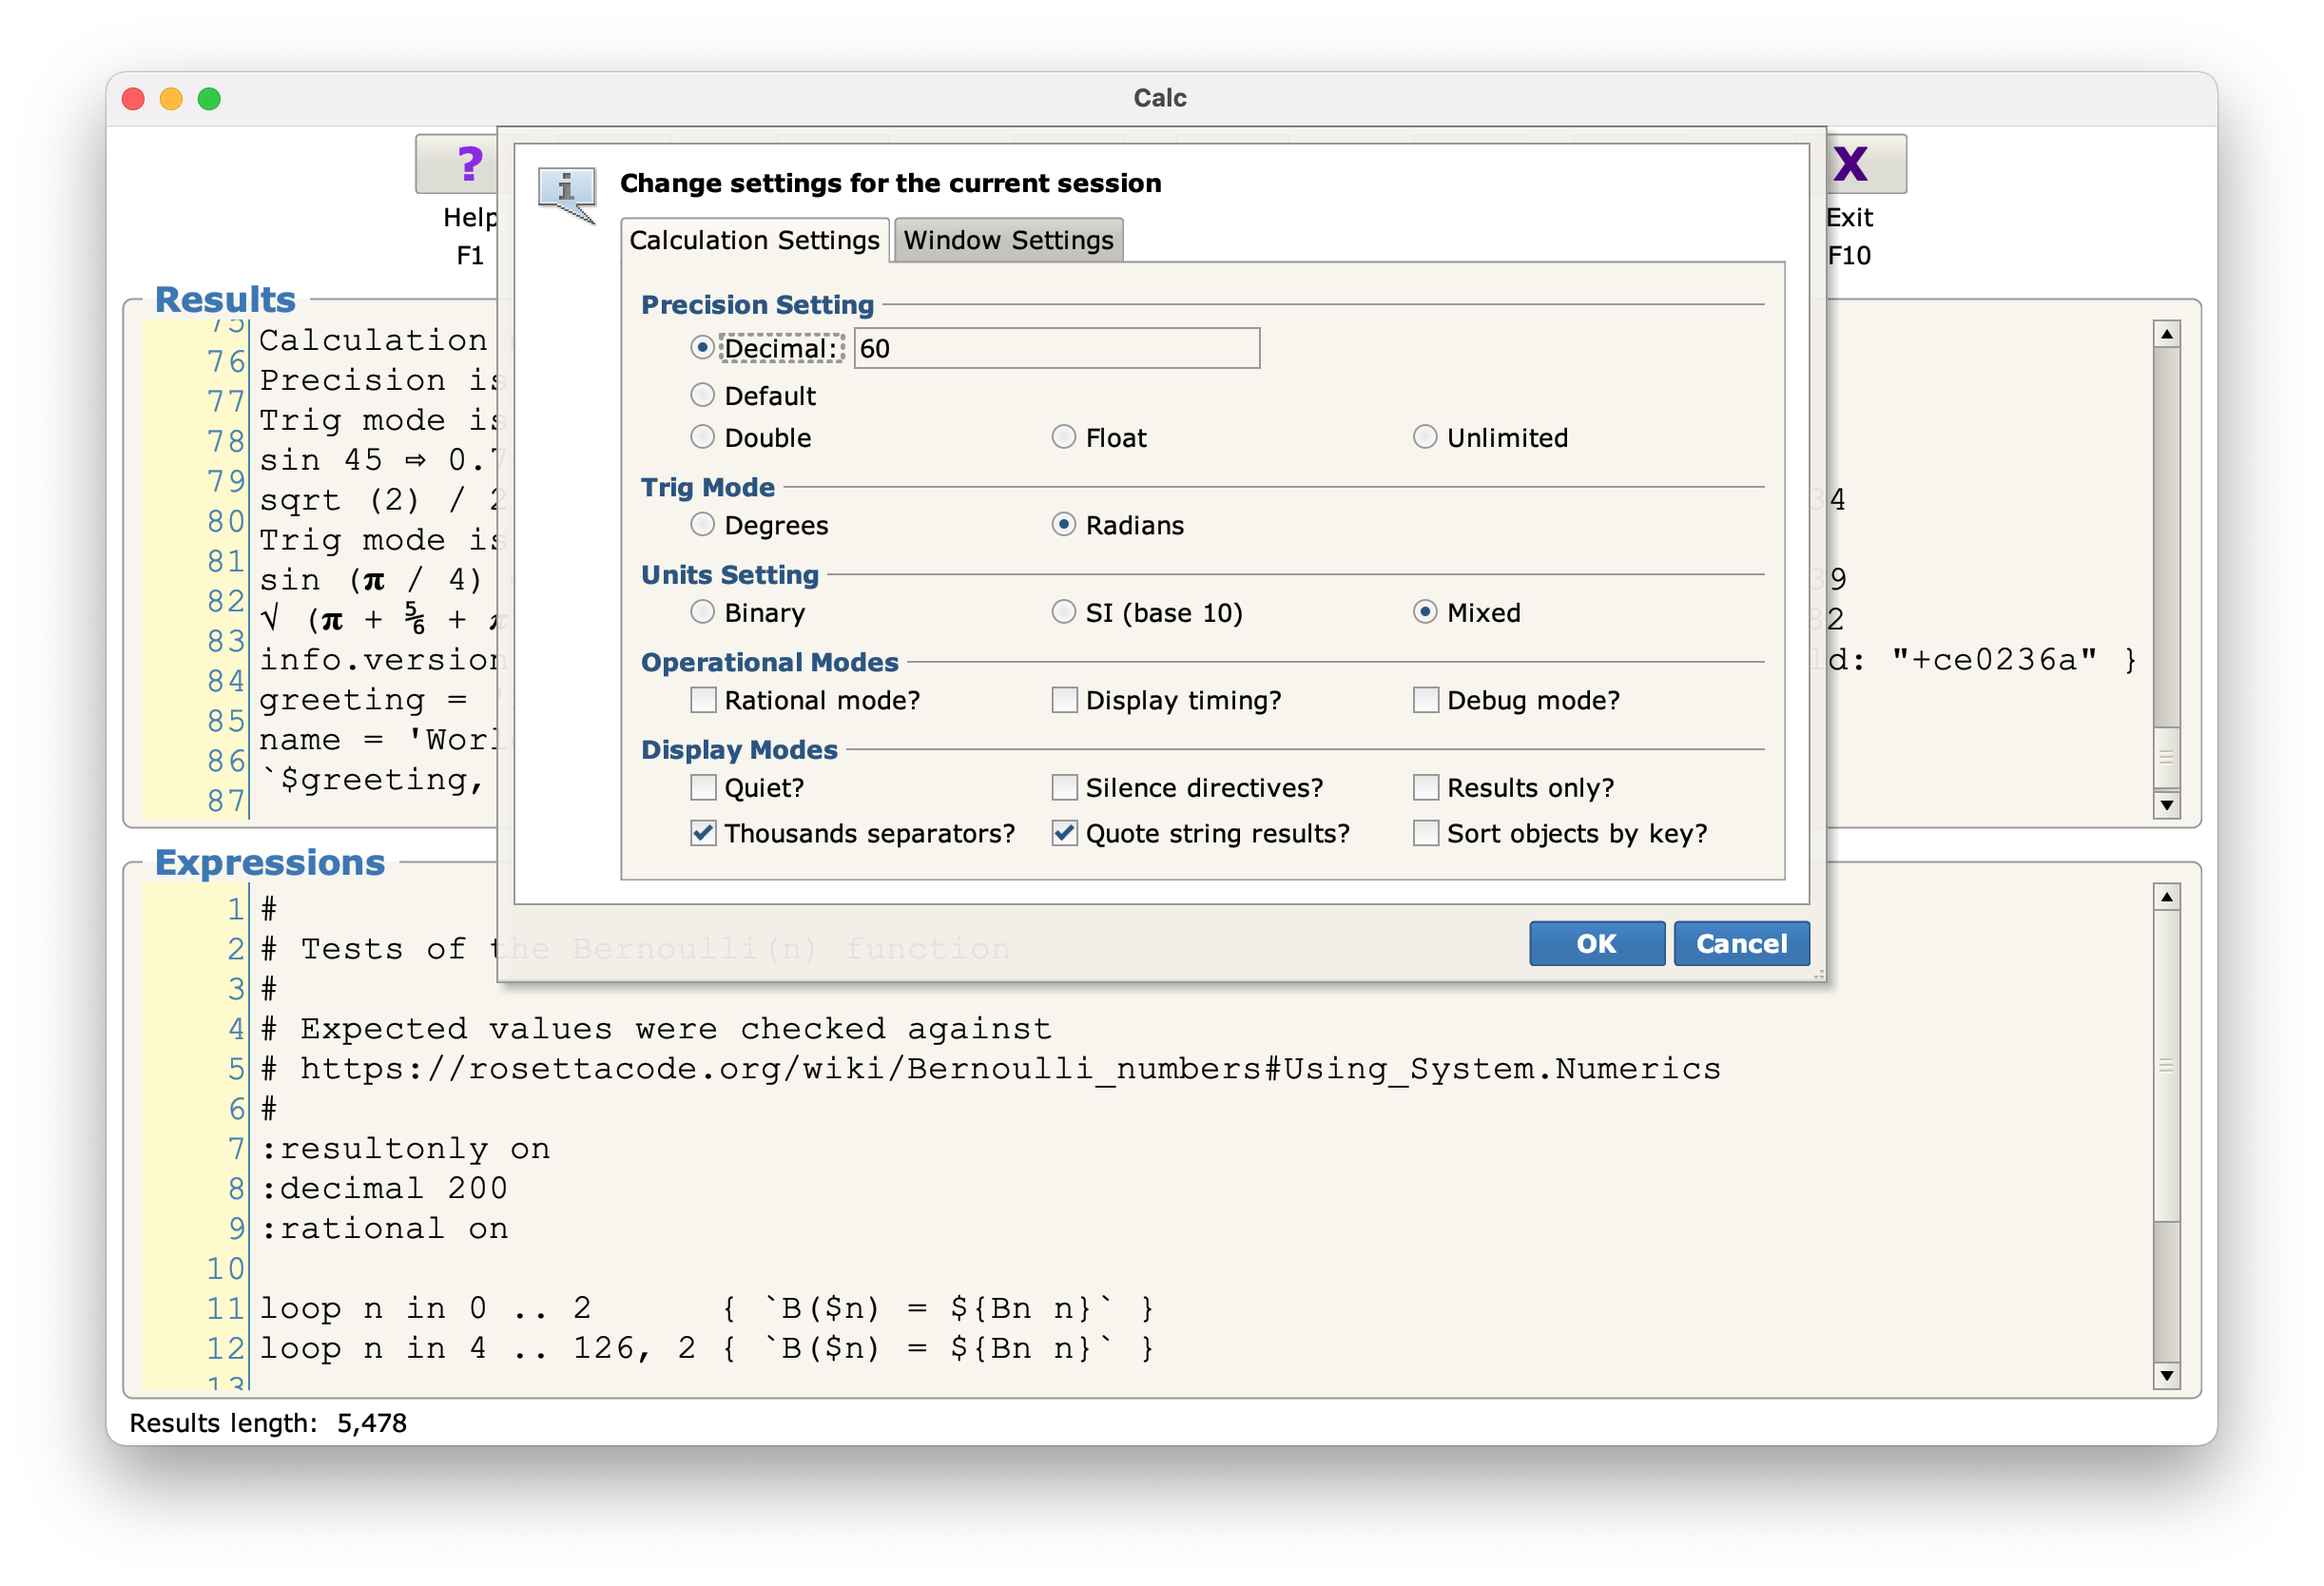
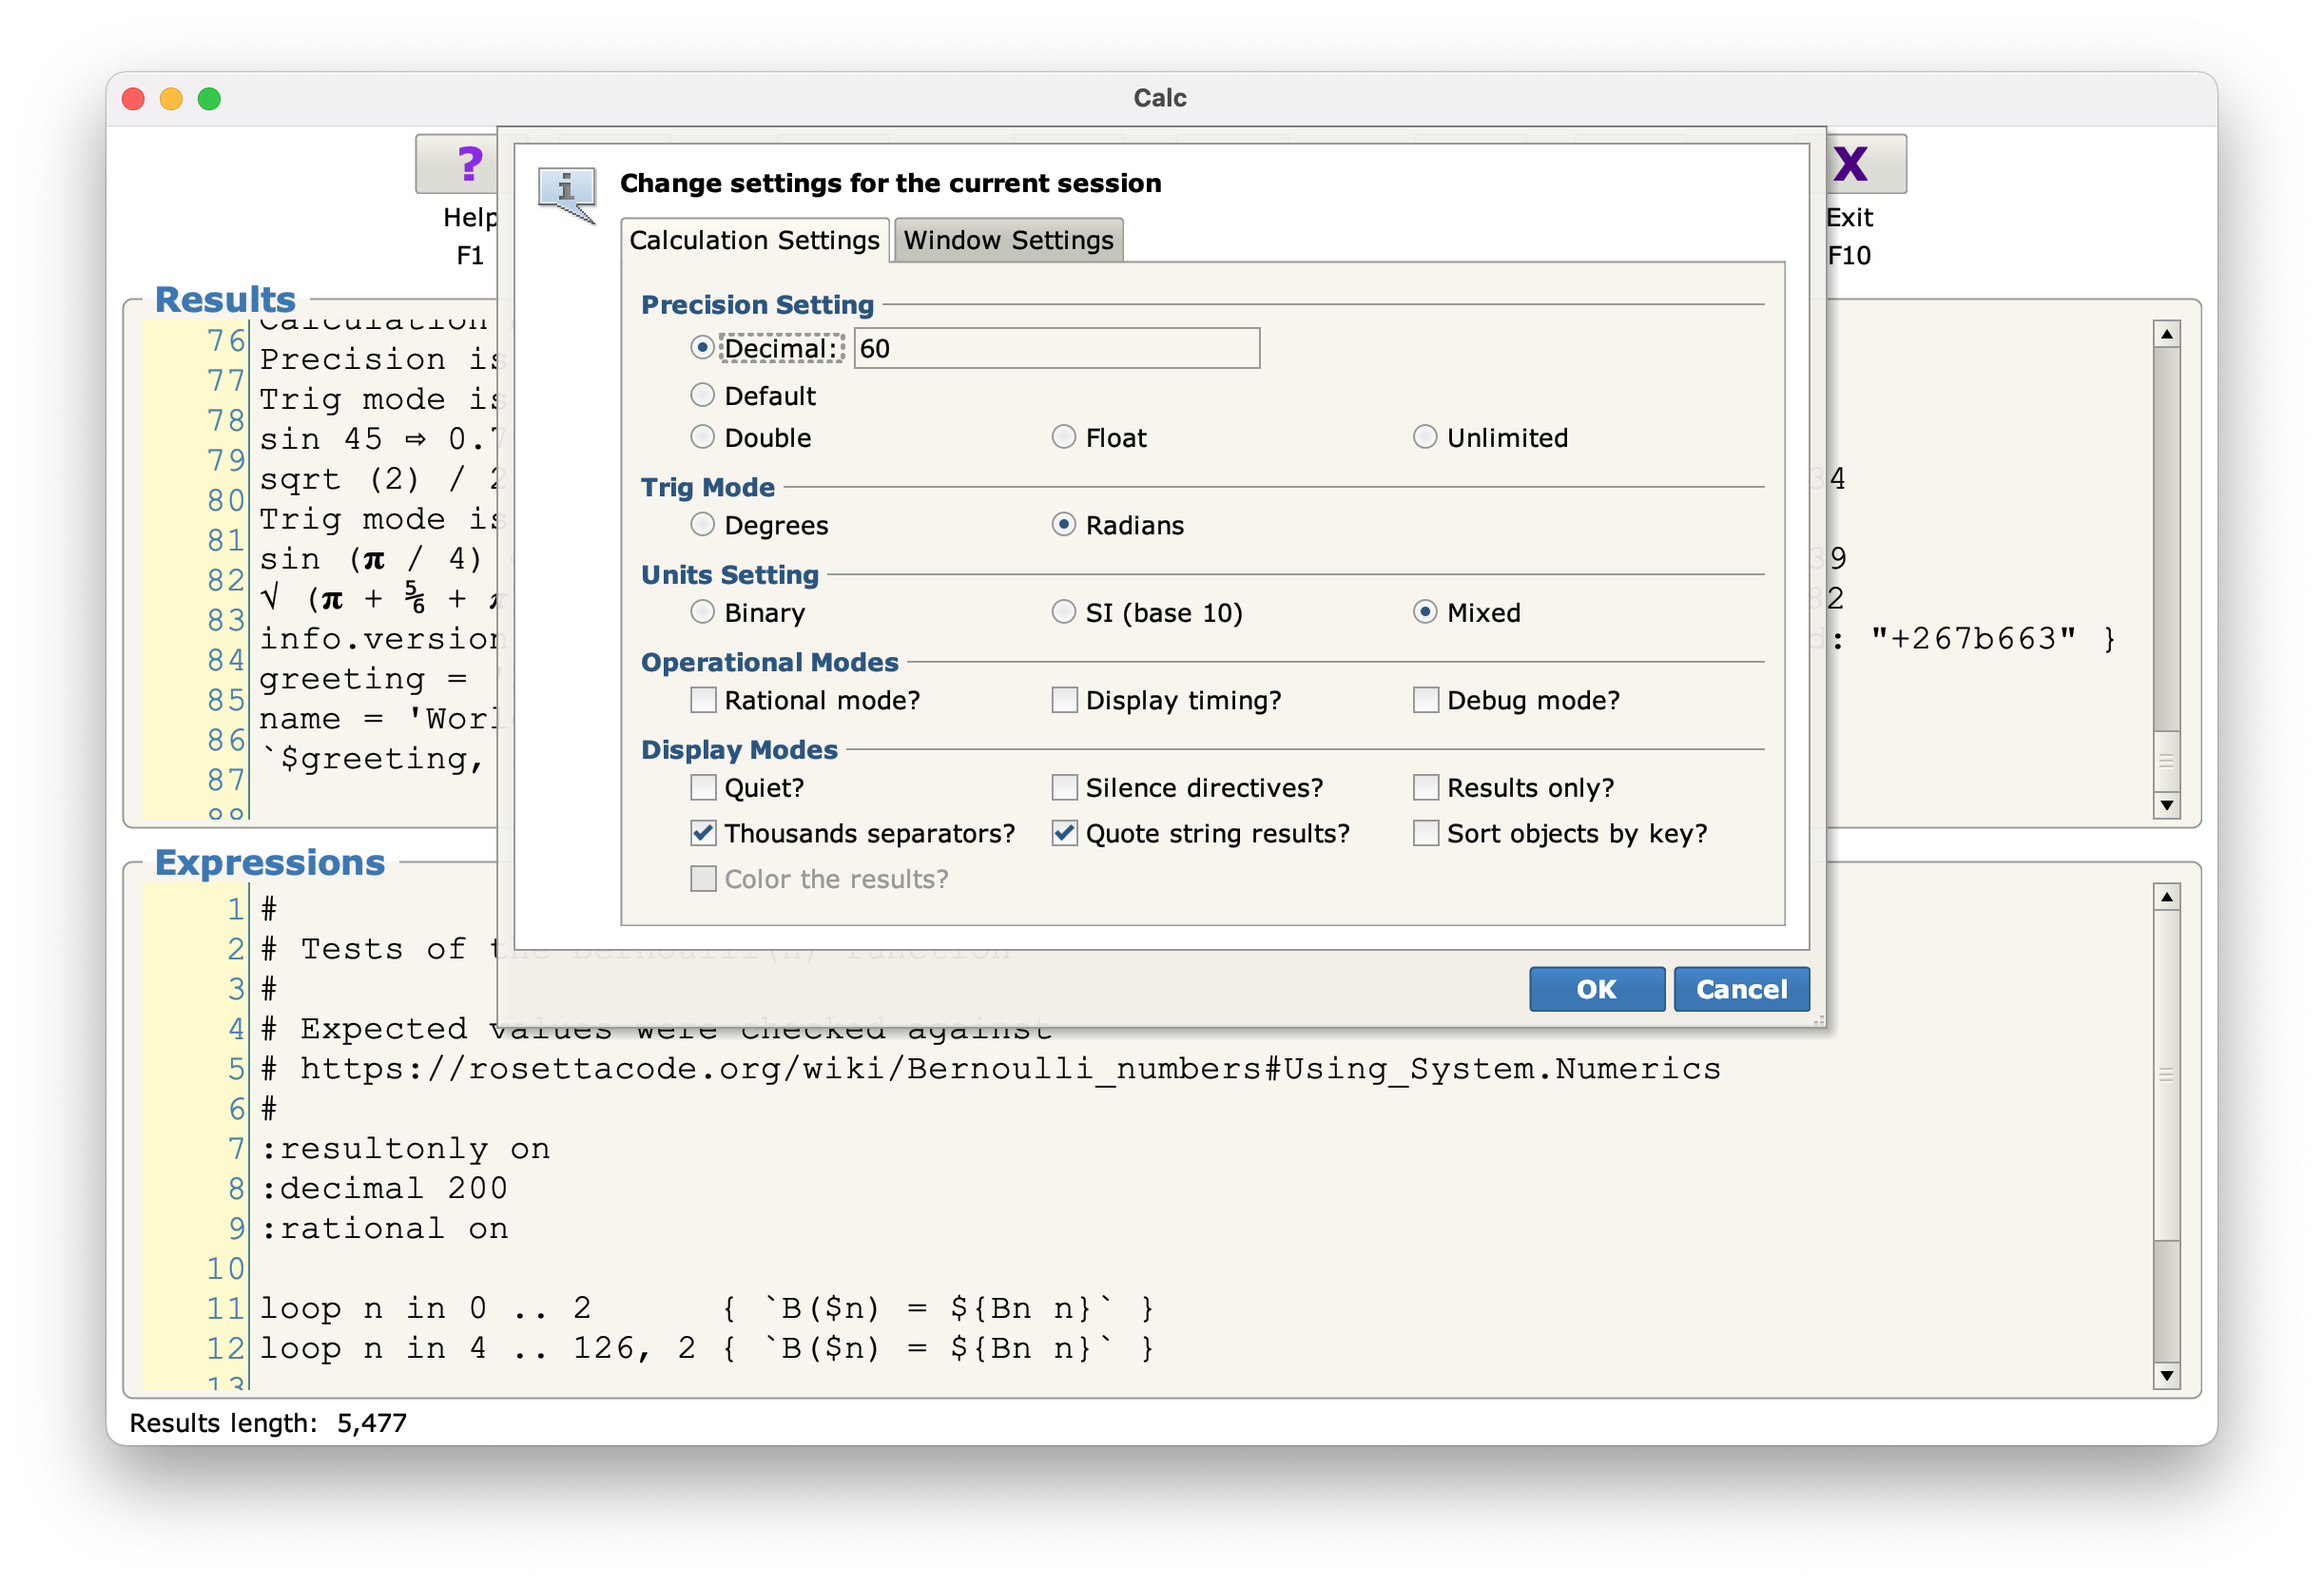
#454: Implement ":colors" directive in Calc.

diff --git a/java/info/rlwhitcomb/calc/Calc.java b/java/info/rlwhitcomb/calc/Calc.java
@@ -303,6 +303,8 @@
  *	    #432: Add flags ("-file", "-text", and "-filetext") as well as input handling for this.
  *	16-Aug-2022 (rlwhitcomb)
  *	    #439: Implement fallback processing of "next" statement.
+ *	24-Aug-2022 (rlwhitcomb)
+ *	    #454: Process new colored option in Settings dialog; allow setting colored mode from visitor.
  */
 package info.rlwhitcomb.calc;
 
@@ -469,7 +471,8 @@ public class Calc
 	{
 		ORIGINAL_SETTINGS,
 		ORIGINAL_MATH_CONTEXT,
-		NEW_MATH_CONTEXT
+		NEW_MATH_CONTEXT,
+		ORIGINAL_COLORED
 	}
 
 
@@ -550,6 +553,7 @@ public class Calc
 	@BXML private Checkbox separatorCheck;
 	@BXML private Checkbox quoteStringsCheck;
 	@BXML private Checkbox sortKeysCheck;
+	@BXML private Checkbox coloredCheck;
 	@BXML private RadioButton useEnterButton;
 	@BXML private RadioButton useCmdEnterButton;
 	@BXML private RadioButton lightBackgroundButton;
@@ -622,7 +626,6 @@ public class Calc
 	    colorMap.put("y", (darkBackgrounds ? YELLOW_BRIGHT : BLUE_BOLD));
 	    colorMap.put("a", (darkBackgrounds ? WHITE : BLACK_BRIGHT));
 
-
 	    if (quoteMap.isEmpty()) {
 		quoteMap.put("x", "");
 		quoteMap.put("y", "\u201C");
@@ -686,6 +689,9 @@ public class Calc
 	    }
 	}
 
+	/**
+	 * Set the colors for the GUI components, depending on the dark/light settings.
+	 */
 	private void setGUIContainerColors(Container container) {
 	    setGUIComponentColors(container);
 	    for (Component comp : container) {
@@ -694,13 +700,6 @@ public class Calc
 		else
 		    setGUIComponentColors(comp);
 	    }
-	}
-
-	/**
-	 * Set the colors for the GUI components, depending on the dark/light settings.
-	 */
-	private void setGUIColors() {
-	    setGUIContainerColors(mainWindow);
 	}
 
 
@@ -791,6 +790,7 @@ public class Calc
 	    MathContext mc = visitor.getMathContext();
 	    Settings settings = visitor.getSettings();
 	    Settings oldSettings = new Settings(settings);
+	    boolean oldColored = colors;
 	    Component focusComponent = settingsForm;
 
 	    // TODO: we really should do this view load/store and data bind mappings
@@ -798,6 +798,7 @@ public class Calc
 	    dialog.setAttribute(Attribute.ORIGINAL_SETTINGS, oldSettings);
 	    dialog.setAttribute(Attribute.ORIGINAL_MATH_CONTEXT, mc);
 	    dialog.setAttribute(Attribute.NEW_MATH_CONTEXT, mc);
+	    dialog.setAttribute(Attribute.ORIGINAL_COLORED, oldColored);
 
 	    decimalDigitsInput.setText(String.valueOf(mc.getPrecision()));
 	    decimalDigitsInput.setEnabled(false);
@@ -848,6 +849,7 @@ public class Calc
 	    separatorCheck.setSelected(settings.separatorMode);
 	    quoteStringsCheck.setSelected(settings.quoteStrings);
 	    sortKeysCheck.setSelected(settings.sortKeys);
+	    coloredCheck.setSelected(colors);
 
 	    if (useCmdEnter)
 		useCmdEnterButton.setSelected(true);
@@ -870,6 +872,7 @@ public class Calc
 		    visitor.setMathContext(newMathContext);
 
 		Settings originalSettings = (Settings) dialog.getAttribute(Attribute.ORIGINAL_SETTINGS);
+		boolean originalColored = (Boolean) dialog.getAttribute(Attribute.ORIGINAL_COLORED);
 
 		TrigMode newTrigMode = TrigMode.RADIANS;
 		if (degreesModeButton.isSelected())
@@ -921,17 +924,22 @@ public class Calc
 		if (newSortKeys != originalSettings.sortKeys)
 		    visitor.setSortKeysMode(newSortKeys);
 
+		boolean newColored = coloredCheck.isSelected();
+		if (newColored != originalColored)
+		    visitor.setColoredMode(newColored);
+
 		useCmdEnter = useCmdEnterButton.isSelected();
 
 		darkBackgrounds = darkBackgroundButton.isSelected();
 
 		computeColors(colors);
-		setGUIColors();
+		setGUIContainerColors(mainWindow);
 	    }
 
 	    dialog.setAttribute(Attribute.ORIGINAL_SETTINGS, null);
 	    dialog.setAttribute(Attribute.ORIGINAL_MATH_CONTEXT, null);
 	    dialog.setAttribute(Attribute.NEW_MATH_CONTEXT, null);
+	    dialog.setAttribute(Attribute.ORIGINAL_COLORED, null);
 
 	    requestFocus(inputTextPane);
 	}
@@ -994,10 +1002,8 @@ public class Calc
 		System.setErr(ps);
 
 		// For now, we won't support colors in the GUI display
-		// TODO: if we ever support going back from GUI mode to console, we will need to restore
-		// the old "colors" mode at that point
 		computeColors(false);
-		setGUIColors();
+		setGUIContainerColors(mainWindow);
 
 		// Increase the maximum output text length in case of humongous calculations
 		outputTextArea.setMaximumLength(20_000_000);
@@ -1262,6 +1268,14 @@ public class Calc
 	    silenceDirectives = CharUtil.getBooleanValue(mode);
 	    visitor.setSilenceDirectives(silenceDirectives);
 	    return oldMode;
+	}
+
+	public static boolean getColoredMode() {
+	    return colors;
+	}
+
+	public static void setColoredMode(final boolean colored) {
+	    computeColors(colored && !guiMode);
 	}
 
 

diff --git a/java/info/rlwhitcomb/calc/CalcObjectVisitor.java b/java/info/rlwhitcomb/calc/CalcObjectVisitor.java
@@ -648,6 +648,8 @@
  *	    #452: Fix weird error due to "leave" not setting return value from function.
  *	    #455: Change "chars" and "codes" to deal differently depending on input value.
  *	    #459: Add "@@" (to string) operator.
+ *	24-Aug-2022 (rlwhitcomb)
+ *	    #454: Implement ":colors" directive.
  */
 package info.rlwhitcomb.calc;
 
@@ -797,6 +799,9 @@ public class CalcObjectVisitor extends CalcBaseVisitor<Object>
 
 	/** Stack of previous "sort keys" mode values. */
 	private final Deque<Boolean> sortKeysModeStack = new ArrayDeque<>();
+
+	/** Stack of previous "colored" mode values. */
+	private final Deque<Boolean> coloredModeStack = new ArrayDeque<>();
 
 	/** Stack of previous "resultsOnly" mode values. */
 	private final Deque<Boolean> resultsOnlyModeStack = new ArrayDeque<>();
@@ -1089,6 +1094,21 @@ public class CalcObjectVisitor extends CalcBaseVisitor<Object>
 
 	private Consumer<Object> pushSortKeysMode = mode -> {
 	    processModeOption(mode, sortKeysModeStack, setSortKeysMode);
+	};
+
+	public boolean setColoredMode(final Object mode) {
+	    boolean oldMode = Calc.getColoredMode();
+	    Calc.setColoredMode(CharUtil.getBooleanValue(mode));
+
+	    return oldMode;
+	}
+
+	private UnaryOperator<Boolean> setColoredMode = mode -> {
+	    return setColoredMode(mode);
+	};
+
+	private Consumer<Object> pushColoredMode = mode -> {
+	    processModeOption(mode, coloredModeStack, setColoredMode);
 	};
 
 	public boolean setRationalMode(final Object mode) {
@@ -1925,6 +1945,12 @@ public class CalcObjectVisitor extends CalcBaseVisitor<Object>
 	public Object visitSortObjectsDirective(CalcParser.SortObjectsDirectiveContext ctx) {
 	    return processModeOption(ctx.modeOption(), sortKeysModeStack, ctx.bracketBlock(), setSortKeysMode);
 	}
+
+	@Override
+	public Object visitColorsDirective(CalcParser.ColorsDirectiveContext ctx) {
+	    return processModeOption(ctx.modeOption(), coloredModeStack, ctx.bracketBlock(), setColoredMode);
+	}
+
 
 	private String versionText(CalcParser.VersionNumberContext versionCtx) {
 	    if (versionCtx == null)
